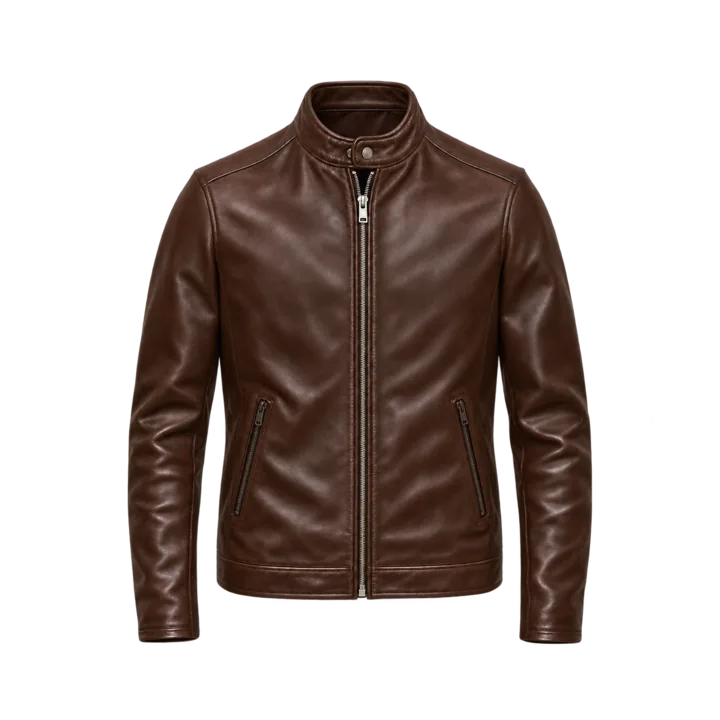
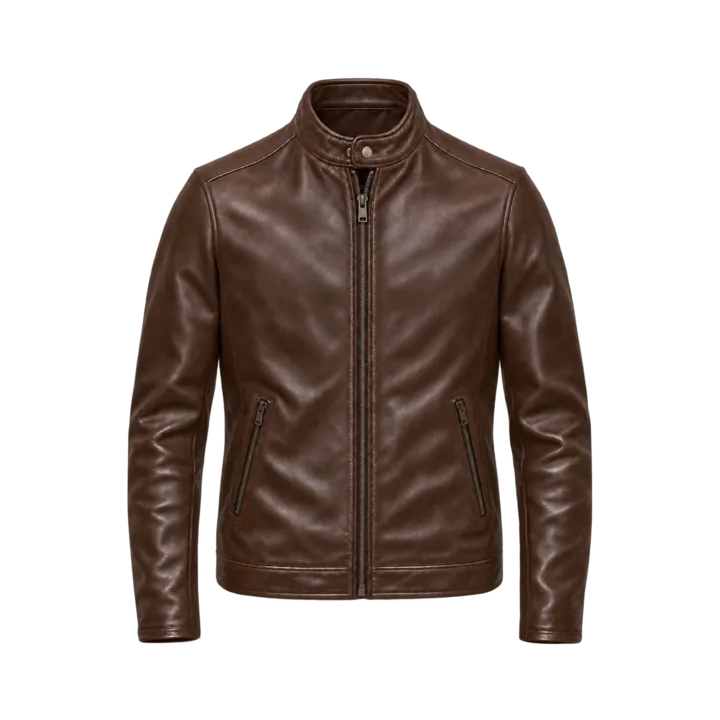
Add dark brown cafe racer outfit collection

diff --git a/data-catalog.js b/data-catalog.js
@@ -19,6 +19,15 @@
    - lookAliases resolves legacy bookmarks and rotation history to the identical existing look. */
 window.FITS_DATA={
 families:[
+{id:'family-look-208',name:'Dark brown café racer + charcoal henley + dark denim',hero:'look-208',looks:['look-208']},
+{id:'family-look-209',name:'Dark brown café racer + cream crewneck + charcoal trousers',hero:'look-209',looks:['look-209']},
+{id:'family-look-210',name:'Dark brown café racer + grey crewneck + dark denim',hero:'look-210',looks:['look-210']},
+{id:'family-look-211',name:'Dark brown café racer + black T-shirt + black jeans',hero:'look-211',looks:['look-211']},
+{id:'family-look-212',name:'Dark brown café racer + white T-shirt + blue denim',hero:'look-212',looks:['look-212']},
+{id:'family-look-213',name:'Dark brown café racer + cream turtleneck + dark denim',hero:'look-213',looks:['look-213']},
+{id:'family-look-214',name:'Dark brown café racer + black turtleneck + charcoal trousers',hero:'look-214',looks:['look-214']},
+{id:'family-look-215',name:'Dark brown café racer + grey T-shirt + black jeans',hero:'look-215',looks:['look-215']},
+{id:'family-look-216',name:'Dark brown café racer + black T-shirt + charcoal jeans',hero:'look-216',looks:['look-216']},
 {id:'family-blue-microstripe-waistcoat-navy-dress-trousers',name:'Blue micro-stripe waistcoat + white shirt + navy dress trousers',hero:'look-blue-microstripe-waistcoat-navy-dress-burgundy-tie',looks:['look-blue-microstripe-waistcoat-navy-dress-burgundy-tie','look-blue-microstripe-waistcoat-navy-dress-open-collar']},
 {id:'family-blue-waistcoat-grey-dress-trousers',name:'Blue waistcoat + white shirt + grey dress trousers',hero:'look-blue-waistcoat-grey-dress-trousers',looks:['look-blue-waistcoat-grey-dress-trousers']},
 {id:'family-blue-waistcoat-beige-chinos',name:'Blue waistcoat + white shirt + beige chinos',hero:'look-blue-waistcoat-beige-chinos',looks:['look-blue-waistcoat-beige-chinos']},
@@ -493,6 +502,15 @@ looks:[
 ,{id:'look-205',publishedOn:'2026-11-03',family:'family-look-205',name:'Navy V-neck + striped shirt + camel chinos + brown cap-toe shoes',image:'assets/look-205-navy-vneck-striped-shirt-camel-brown.png?v=1',formal:4,badges:['Office','Dinner'],pieces:['navy-vneck-sweater','sky-blue-striped-dress-shirt','beige-chinos','brown-belt','owned-brown-leather-captoe']}
 ,{id:'look-206',publishedOn:'2026-11-03',family:'family-look-206',name:'Black V-neck + striped shirt + beige chinos + brown cap-toe shoes',image:'assets/look-206-black-vneck-striped-shirt-beige-brown.png?v=1',formal:4,badges:['Office','Dinner'],pieces:['owned-black-vneck','sky-blue-striped-dress-shirt','beige-chinos','brown-belt','owned-brown-leather-captoe']}
 ,{id:'look-207',publishedOn:'2026-11-05',family:'family-look-207',name:'Blue gingham shirt + navy chinos + cognac loafers',image:'assets/look-207-blue-gingham-navy-chinos-brown-loafers.png?v=1',formal:2,badges:['Office','Weekend','Travel'],pieces:['owned-blue-gingham-shirt','navy-trousers','brown-loafers']}
+,{id:'look-208',publishedOn:'2026-11-11',family:'family-look-208',name:'Dark brown café racer + charcoal henley + dark denim + brown Chelsea boots',image:'assets/look-208-brown-cafe-racer-charcoal-henley-dark-denim-brown-boots.webp?v=1',formal:2,badges:['Transition','Weekend','Travel','Dinner'],pieces:['owned-dark-brown-leather-cafe-racer','grey-henley','dark-denim','brown-chelsea']}
+,{id:'look-209',publishedOn:'2026-11-11',family:'family-look-209',name:'Dark brown café racer + cream crewneck + charcoal trousers + brown leather sneakers',image:'assets/look-209-brown-cafe-racer-cream-crew-charcoal-brown-sneakers.webp?v=1',formal:2,badges:['Transition','Weekend','Dinner'],pieces:['owned-dark-brown-leather-cafe-racer','cream-crewneck-sweater','charcoal-trousers','owned-br-cognac-sneakers']}
+,{id:'look-210',publishedOn:'2026-11-11',family:'family-look-210',name:'Dark brown café racer + grey crewneck + dark denim + taupe Chelsea boots',image:'assets/look-210-brown-cafe-racer-grey-crew-dark-denim-taupe-chelsea.webp?v=1',formal:2,badges:['Transition','Weekend','Dinner'],pieces:['owned-dark-brown-leather-cafe-racer','grey-crewneck','dark-denim','taupe-suede-chelsea']}
+,{id:'look-211',publishedOn:'2026-11-11',family:'family-look-211',name:'Dark brown café racer + black T-shirt + black jeans + white leather sneakers',image:'assets/look-211-brown-cafe-racer-black-tee-black-denim-black-boots.webp?v=1',formal:1,badges:['Transition','Weekend','Travel'],pieces:['owned-dark-brown-leather-cafe-racer','black-tee','black-denim','white-leather-sneakers']}
+,{id:'look-212',publishedOn:'2026-11-11',family:'family-look-212',name:'Dark brown café racer + white T-shirt + blue denim + white leather sneakers',image:'assets/look-212-brown-cafe-racer-white-tee-blue-denim-white.webp?v=1',formal:1,badges:['Transition','Weekend','Travel'],pieces:['owned-dark-brown-leather-cafe-racer','white-tee','blue-denim','white-leather-sneakers']}
+,{id:'look-213',publishedOn:'2026-11-11',family:'family-look-213',name:'Dark brown café racer + cream turtleneck + dark denim + brown Chelsea boots',image:'assets/look-213-brown-cafe-racer-cream-turtleneck-dark-denim-brown-chelsea.webp?v=1',formal:2,badges:['Transition','Dinner','Weekend'],pieces:['owned-dark-brown-leather-cafe-racer','cream-cable-knit-turtleneck','dark-denim','brown-chelsea']}
+,{id:'look-214',publishedOn:'2026-11-11',family:'family-look-214',name:'Dark brown café racer + black turtleneck + charcoal trousers + brown Chelsea boots',image:'assets/look-214-brown-cafe-racer-black-turtleneck-charcoal-brown-chelsea.webp?v=1',formal:3,badges:['Transition','Dinner','Office'],pieces:['owned-dark-brown-leather-cafe-racer','black-turtleneck','dark-charcoal-dress-trousers','brown-chelsea']}
+,{id:'look-215',publishedOn:'2026-11-11',family:'family-look-215',name:'Dark brown café racer + grey T-shirt + black jeans + white leather sneakers',image:'assets/look-215-brown-cafe-racer-grey-tee-black-denim-white.webp?v=1',formal:1,badges:['Transition','Weekend','Travel'],pieces:['owned-dark-brown-leather-cafe-racer','grey-tee','black-denim','white-leather-sneakers']}
+,{id:'look-216',publishedOn:'2026-11-11',family:'family-look-216',name:'Dark brown café racer + black T-shirt + charcoal jeans + white leather sneakers',image:'assets/look-216-brown-cafe-racer-black-tee-charcoal-denim-white.webp?v=1',formal:1,badges:['Transition','Weekend','Travel'],pieces:['owned-dark-brown-leather-cafe-racer','black-tee','charcoal-denim','white-leather-sneakers']}
 ],
 pieces:[
 {id:'owned-dark-brown-leather-cafe-racer',name:'Dark brown leather café racer jacket',category:'Outerwear',status:'owned'},

diff --git a/fits-pipeline.js b/fits-pipeline.js
@@ -3,7 +3,7 @@
    Add, remove, reorder or cache-bump a data step here only, never in a page.
 
    Pages load it as the first script in <body>, then their own UI scripts:
-     <script src="fits-pipeline.js?v=29"></script>
+     <script src="fits-pipeline.js?v=31"></script>
    Cloudflare caches it for 4 hours, so bump that ?v= in every page whenever this file changes.
    document.write keeps the steps parser-blocking and in order, before the page's own scripts
    and before DOMContentLoaded, exactly like the static <script> tags it replaces.
@@ -12,7 +12,7 @@
 (()=>{
   const steps=[
     // Source data: edit records in data-catalog.js and bump its ?v= here
-    'data-catalog.js?v=38',
+    'data-catalog.js?v=39',
     // Wardrobe cleanup
     'wardrobe-canonical-v2.js?v=5',
     'look-aliases.js?v=1',
@@ -41,7 +41,7 @@
     // Garment groups for the Wardrobe and Looks filters (FITS_KINDS)
     'garment-kinds.js?v=5',
     // Piece image maps (window.FITS_CATALOG_IMAGES)
-    'catalog-images.js?v=2','catalog-batch2.js?v=2','catalog-batch3.js?v=2','catalog-v4.js?v=21'
+    'catalog-images.js?v=2','catalog-batch2.js?v=2','catalog-batch3.js?v=2','catalog-v4.js?v=23'
   ];
   window.FITS_PIPELINE=steps;
   if(typeof document!=='undefined'&&typeof document.write==='function')

diff --git a/inspiration-lab.html b/inspiration-lab.html
@@ -51,7 +51,7 @@ nav a{color:#cdd2d5;font-size:12px;text-decoration:none}nav a.active{color:white
 <section id="savedView" class="hidden"><h1>My versions</h1><p class="subtle">Saved combinations, independent from original looks.</p><div id="savedList"></div></section>
 <nav><a href="#" data-screen="browse" class="active">✦ Inspiration</a><a href="#" data-screen="savedView">♡ My versions</a><a href="wardrobe.html">◇ Wardrobe</a><a href="index.html">⌂ FITS Home</a></nav>
 </div>
-<script src="fits-pipeline.js?v=29"></script>
+<script src="fits-pipeline.js?v=31"></script>
 <script src="weather-location-cache.js?v=5"></script>
 <script src="season-filter.js?v=33"></script>
 <script>

diff --git a/catalog-v4.js b/catalog-v4.js
@@ -89,5 +89,5 @@ Object.assign(window.FITS_CATALOG_IMAGES, {
 Object.assign(window.FITS_CATALOG_IMAGES, {
 'owned-blue-tailored-waistcoat':'assets/catalog-owned-blue-tailored-waistcoat.webp?v=2',
 'owned-dark-burgundy-silk-tie':'assets/catalog-owned-dark-burgundy-silk-tie.webp?v=1',
-'owned-dark-brown-leather-cafe-racer':'assets/catalog-owned-dark-brown-leather-cafe-racer.webp?v=1'
+'owned-dark-brown-leather-cafe-racer':'assets/catalog-owned-dark-brown-leather-cafe-racer.webp?v=2'
 });

diff --git a/wardrobe.html b/wardrobe.html
@@ -19,7 +19,7 @@
 </head>
 <body data-page="wardrobe-v5">
   <div id="root"></div>
-  <script src="fits-pipeline.js?v=29"></script>
+  <script src="fits-pipeline.js?v=31"></script>
   <script>var PIECE_IMAGES=window.PIECE_IMAGES||{};</script>
   <script src="piece-image-overrides.js?v=41"></script>
   <script src="looks-v5-core.js?v=16"></script>

diff --git a/looks.html b/looks.html
@@ -23,7 +23,7 @@
 </head>
 <body data-page="looks-v5">
   <div id="root"></div>
-  <script src="fits-pipeline.js?v=29"></script>
+  <script src="fits-pipeline.js?v=31"></script>
   <script>var PIECE_IMAGES=window.PIECE_IMAGES||{};</script>
   <script src="piece-image-overrides.js?v=41"></script>
   <script src="looks-v5-core.js?v=16"></script>

diff --git a/next-buy.html b/next-buy.html
@@ -19,7 +19,7 @@
 </head>
 <body data-page="next-buy">
   <div id="root"></div>
-  <script src="fits-pipeline.js?v=29"></script>
+  <script src="fits-pipeline.js?v=31"></script>
   <script>var PIECE_IMAGES=window.PIECE_IMAGES||{};</script>
   <script src="piece-image-overrides.js?v=41"></script>
   <script src="looks-v5-core.js?v=16"></script>

diff --git a/piece.html b/piece.html
@@ -19,7 +19,7 @@
 </head>
 <body data-page="piece-v5">
   <div id="root"></div>
-  <script src="fits-pipeline.js?v=29"></script>
+  <script src="fits-pipeline.js?v=31"></script>
   <script>var PIECE_IMAGES=window.PIECE_IMAGES||{};</script>
   <script src="piece-image-overrides.js?v=41"></script>
   <script src="looks-v5-core.js?v=16"></script>

diff --git a/stats.html b/stats.html
@@ -19,7 +19,7 @@
 </head>
 <body data-page="stats-v5">
   <div id="root"></div>
-  <script src="fits-pipeline.js?v=29"></script>
+  <script src="fits-pipeline.js?v=31"></script>
   <script>var PIECE_IMAGES=window.PIECE_IMAGES||{};</script>
   <script src="piece-image-overrides.js?v=41"></script>
   <script src="looks-v5-core.js?v=16"></script>

diff --git a/detail.html b/detail.html
@@ -26,7 +26,7 @@
 </head>
 <body>
   <div id="root"></div>
-  <script src="fits-pipeline.js?v=29"></script>
+  <script src="fits-pipeline.js?v=31"></script>
   <script>window.PIECE_IMAGES=window.FITS_CATALOG_IMAGES||{};</script>
   <script src="piece-image-overrides.js?v=41"></script>
   <script src="detail-v3.js?v=40"></script>

diff --git a/index.html b/index.html
@@ -54,7 +54,7 @@
 </head>
 <body>
   <div id="root"></div>
-  <script src="fits-pipeline.js?v=29"></script>
+  <script src="fits-pipeline.js?v=31"></script>
   <script src="fits-weather.js?v=1"></script>
   <script src="home-v2.js?v=34"></script>
   <script src="weather-location-cache.js?v=5"></script>
